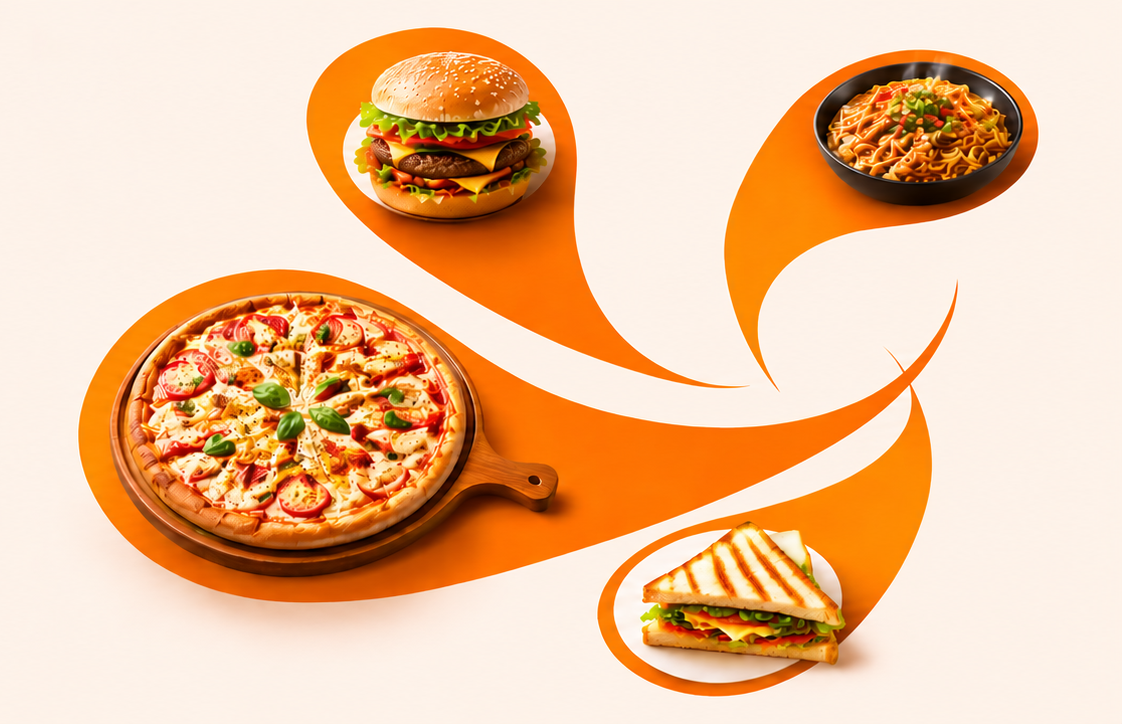
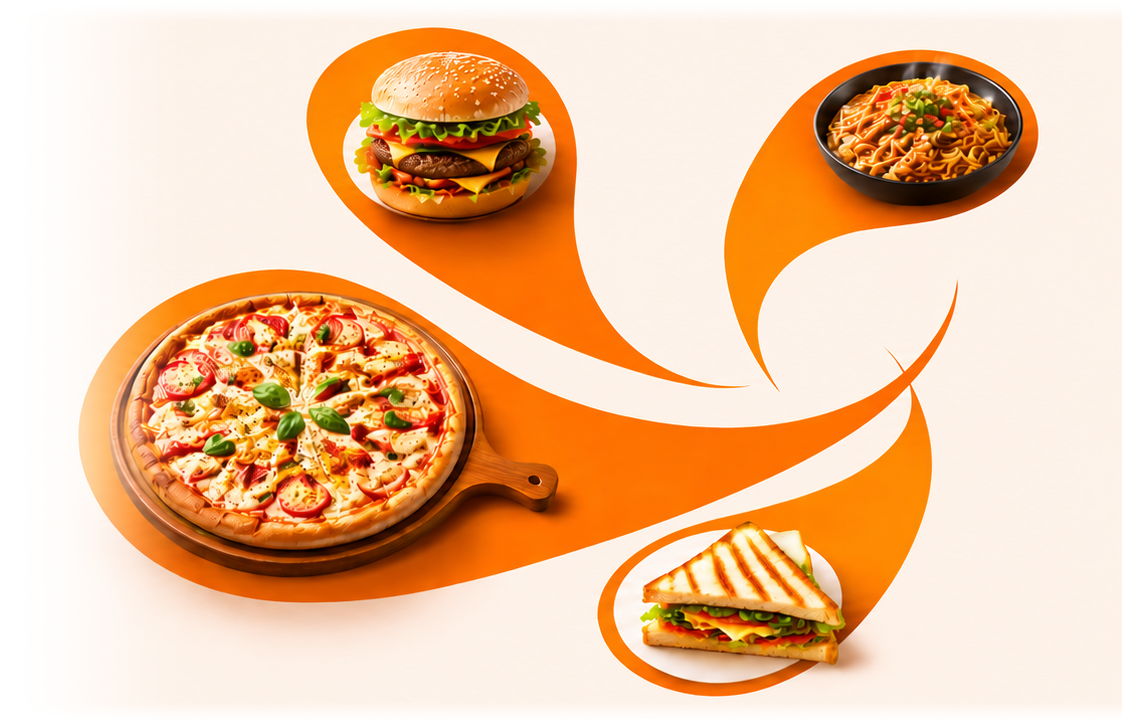
Blend hero food artwork left edge with smooth gradient mix

Changed region(s): [[0.0624, 0.4254, 0.156, 0.7901]]

diff --git a/src/index.css b/src/index.css
@@ -472,12 +472,26 @@ h1, h2, h3, h4, .brand-title, .token-huge-num, .token-display-ready, .token-disp
   overflow: hidden;
 }
 
+.student-hero-media::before {
+  content: "";
+  position: absolute;
+  left: 0;
+  top: 0;
+  bottom: 0;
+  width: 140px;
+  background: linear-gradient(to right, rgba(254, 243, 233, 1) 0%, rgba(254, 243, 233, 0.7) 45%, transparent 100%);
+  z-index: 2;
+  pointer-events: none;
+}
+
 .student-hero-food-img {
   max-height: 205px;
   width: auto;
   object-fit: contain;
   display: block;
-  filter: drop-shadow(0 6px 16px rgba(234, 88, 12, 0.15));
+  mix-blend-mode: multiply;
+  -webkit-mask-image: linear-gradient(to right, transparent 0%, rgba(0, 0, 0, 0.12) 8%, rgba(0, 0, 0, 0.7) 25%, black 40%, black 100%);
+  mask-image: linear-gradient(to right, transparent 0%, rgba(0, 0, 0, 0.12) 8%, rgba(0, 0, 0, 0.7) 25%, black 40%, black 100%);
 }
 
 @media (max-width: 1024px) {
